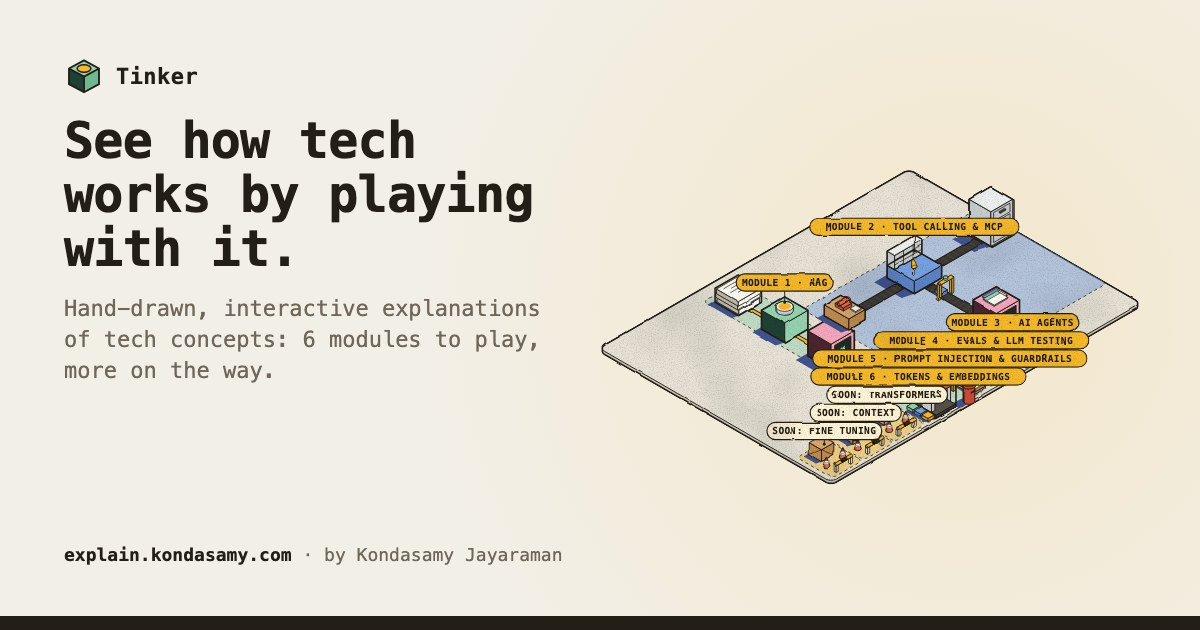
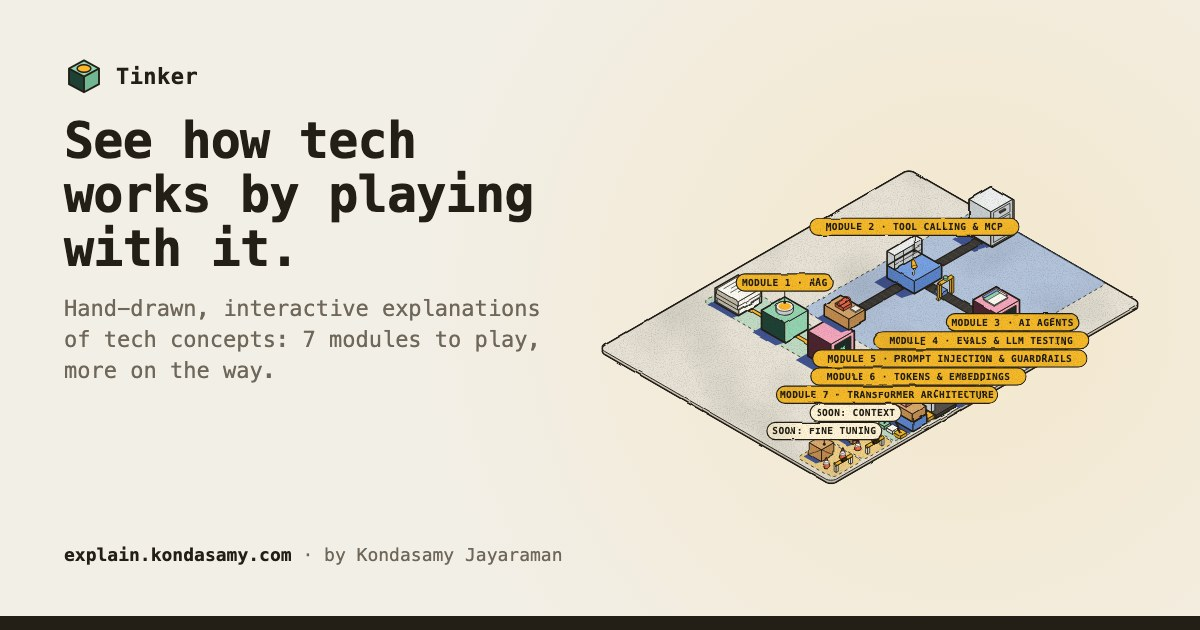
feat(transformers): share images for every Transformers page, and the dev page

Changed region(s): [[0.6475, 0.6032, 0.8325, 0.6937], [0.2467, 0.5127, 0.2775, 0.5429]]

diff --git a/src/content/transformers/kit.tsx b/src/content/transformers/kit.tsx
@@ -76,7 +76,7 @@ export function PromptInput({ value, onChange, label = 'Your prompt' }: { value:
 }
 
 /** A flat figure in the hand-drawn wobble. Its contents were escaped by the figure (esc). */
-function Flat({ fig, role, label, onKeyDown, svgRef, className }: { fig: { svg: string; w: number; h: number }; role: string; label: string; onKeyDown?: (e: KeyboardEvent) => void; svgRef?: Ref<SVGSVGElement>; className?: string }) {
+export function Flat({ fig, role, label, onKeyDown, svgRef, className }: { fig: { svg: string; w: number; h: number }; role: string; label: string; onKeyDown?: (e: KeyboardEvent) => void; svgRef?: Ref<SVGSVGElement>; className?: string }) {
   const id = 'tf' + useId().replace(/[^\w-]/g, '');
   return (
     <svg ref={svgRef} className={className} viewBox={`0 0 ${fig.w} ${fig.h}`} width={fig.w} role={role} aria-label={label} onKeyDown={onKeyDown}>
